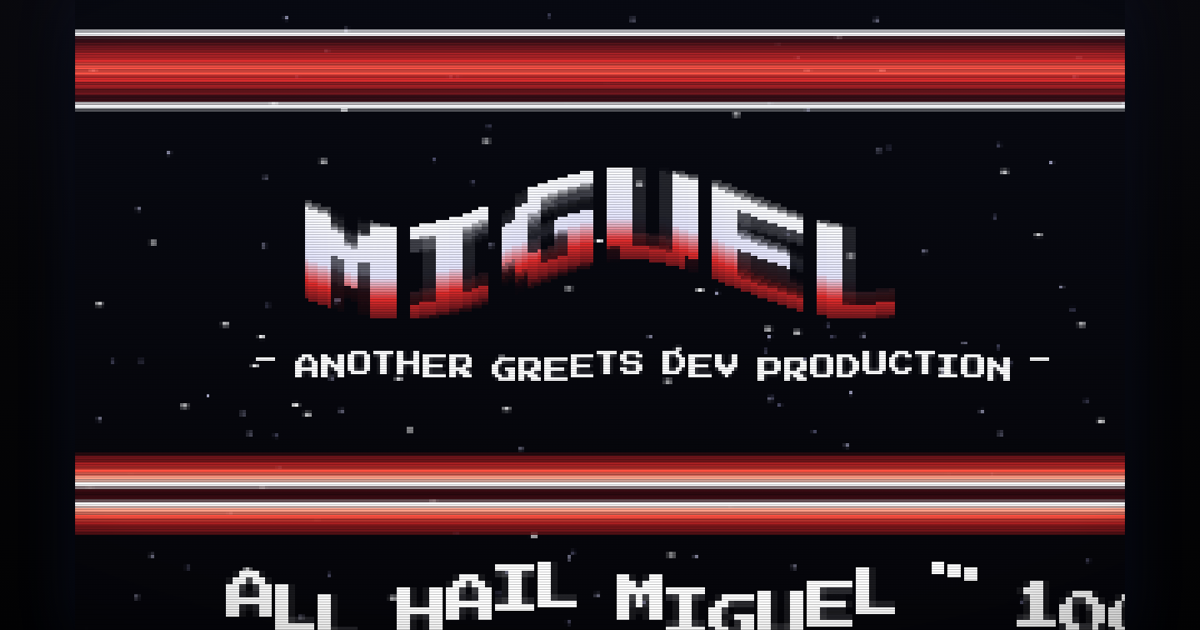
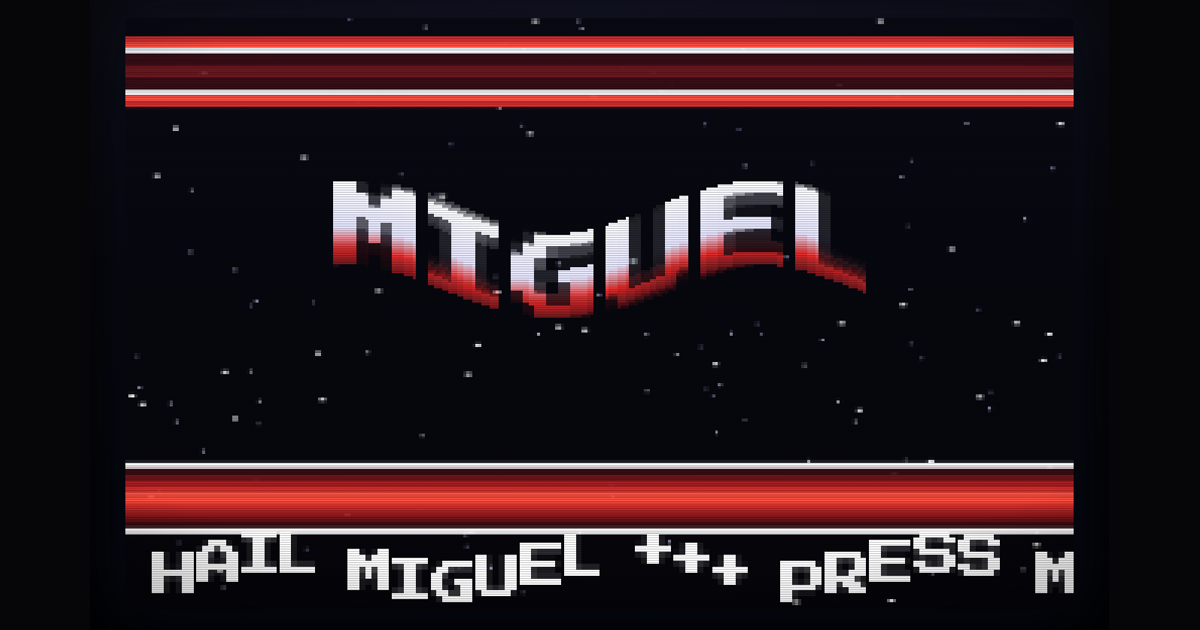
design r7: one-object boot morph, power key in open field, og card, web-haptics thud, mute teaches both gestures

diff --git a/src/App.tsx b/src/App.tsx
@@ -7,6 +7,7 @@ import { makeScrolltext, makeGreetz } from './lib/scrolltext.ts';
 import { generateTune } from './lib/tune.ts';
 import { bootAudio } from './lib/audio.ts';
 import type { Deck } from './lib/audio.ts';
+import { WebHaptics } from 'web-haptics';
 
 function pathName(): string | null {
   const raw = decodeURIComponent(location.pathname.replace(/^\/+/, '')).trim();
@@ -15,22 +16,10 @@ function pathName(): string | null {
   const s = raw.replace(/[^\p{L}\p{N} '\-_.]/gu, '').slice(0, 14).trim();
   return s || null;
 }
+const BAD_PATH = decodeURIComponent(location.pathname.replace(/^\/+/, '')).includes('/');
 
 type Phase = 'landing' | 'toboot' | 'preboot' | 'poweron' | 'running';
 const REDUCED = typeof matchMedia !== 'undefined' && matchMedia('(prefers-reduced-motion: reduce)').matches;
-
-// the seeded copper ramp, also worn by the void bars outside the tube
-function rampFor(name: string): RampName {
-  return pick(mulberry32(hashName(name) ^ 0xface), Object.keys(RAMPS)) as RampName;
-}
-// hard copper stripes, matching the raster's copperBar bands (dark -> hot -> dark)
-function vbarGradient(ramp: RampName): string {
-  const r = RAMPS[ramp];
-  const sym = [r[2], r[3], r[4], r[6], r[6], r[4], r[3], r[2]];
-  const stops = sym.map((c, i) => `${c} ${(i * 100 / 8).toFixed(1)}% ${((i + 1) * 100 / 8).toFixed(1)}%`);
-  return `linear-gradient(to bottom, ${stops.join(', ')})`;
-}
-
 
 export default function App() {
   const [name, setName] = useState<string | null>(pathName);
@@ -39,6 +28,7 @@ export default function App() {
   const canvasRef = useRef<HTMLCanvasElement>(null);
   const inputRef = useRef<HTMLInputElement>(null);
   const deckRef = useRef<Deck | null>(null);
+  const hapticsRef = useRef<WebHaptics | null>(null);
   const mutedRef = useRef(false);
   try { mutedRef.current = localStorage.getItem('greets-muted') === '1'; } catch { /* private mode */ }
   const phaseRef = useRef(phase);
@@ -47,6 +37,12 @@ export default function App() {
   // the demo engine lives outside react; draft flows in via ref
   const draftRef = useRef(draft);
   draftRef.current = draft;
+  // the boot thud — web-haptics covers iOS via audio ticks; muted kills it too
+  const thud = () => {
+    if (REDUCED || mutedRef.current) return;
+    hapticsRef.current ??= new WebHaptics();
+    void hapticsRef.current.trigger(18);
+  };
   const powerRef = useRef({ started: 0, done: 0, fromLanding: false, pressAt: 0 });
 
   useEffect(() => {
@@ -68,7 +64,7 @@ export default function App() {
         const t = (now - t0) / 1000;
         const ph = phaseRef.current;
         if (REDUCED && ph === 'running') { demo.renderReduced(); return; }
-        if (ph === 'landing') demo.renderBios(t, draftRef.current);
+        if (ph === 'landing') demo.renderBios(t, draftRef.current, BAD_PATH);
         else if (ph === 'toboot') {
           const u = (now - powerRef.current.started) / 350;
           // the typed name stays on the glass until the slit covers it — the
@@ -78,7 +74,7 @@ export default function App() {
           if (u >= 1) {
             powerRef.current.started = now;
             powerRef.current.fromLanding = true;
-            if (!REDUCED) navigator.vibrate?.(18);
+            thud();
             const d = deckRef.current;
             if (d) { void d.ctx.resume(); d.play(); }
             setPhase('poweron');
@@ -113,7 +109,7 @@ export default function App() {
         powerRef.current.started = performance.now();
         powerRef.current.fromLanding = false;
         setPhase('poweron');
-        if (!REDUCED) navigator.vibrate?.(18);
+        thud();
         const d = deckRef.current;
         if (d) { void d.ctx.resume(); d.play(); }
       }
@@ -148,12 +144,6 @@ export default function App() {
     return () => { removeEventListener('keydown', onKey); removeEventListener('pointerdown', onTap); };
   }, []);
 
-  useEffect(() => {
-    const ramp = rampFor(name ?? 'STRANGER');
-    document.documentElement.style.setProperty('--vbar', vbarGradient(ramp));
-    document.documentElement.style.setProperty('--vbar-glow', RAMPS[ramp][4] + '55');
-  }, [name]);
-
   const submit = () => {
     const s = draft.trim();
     if (!s) return;
@@ -166,8 +156,6 @@ export default function App() {
   return (
     <div className="app">
       <div className="room" />
-      <div className="vbar top" />
-      <div className="vbar bottom" />
       <div className="tube">
         <canvas ref={canvasRef} className="demoscreen" aria-label={`cracktro greeting ${name ?? ''}`} />
         <div className="crt" aria-hidden>

diff --git a/src/lib/demo.ts b/src/lib/demo.ts
@@ -329,8 +329,9 @@ export class Demo {
     return x;
   }
 
-  // bios/landing: static starfield + boot text, name typed live
-  renderBios(t: number, draft: string) {
+  // bios/landing: static starfield + boot text, name typed live.
+  // a path with a slash lands here too, honestly labelled
+  renderBios(t: number, draft: string, badPath = false) {
     const c = this.ctx;
     c.fillStyle = '#05050a';
     c.fillRect(0, 0, W, H);
@@ -338,7 +339,7 @@ export class Demo {
     const shown = (draft.toUpperCase() || '').slice(0, 12);
     if (shown.length > this.lastDraftLen) { this.flashStart = t; this.flashIdx = shown.length - 1; }
     this.lastDraftLen = shown.length;
-    this.tinyText('TYPE A NAME', 52, t, 2);
+    this.tinyText(badPath ? 'NOT A NAME' : 'TYPE A NAME', 52, t, 2);
     const x = this.drawDraft(shown, t);
     if (Math.floor(t * 2) % 2 === 0) {
       c.fillStyle = this.ramp[6];
@@ -373,6 +374,7 @@ export class Demo {
 
   // preboot: the demo, paused and dimmed, waiting for the gesture.
   // the words stay on the glass — only the dashes breathe — plus a power key
+  // parked in open starfield, clear of the copper
   renderPreboot(t: number, touch = false, pressed = false) {
     this.renderClassic(0, false);
     const c = this.ctx;
@@ -382,7 +384,7 @@ export class Demo {
     const full = '- ' + core + ' -';
     let s = 2;
     while (s > 1 && this.drawnW(full, s) > W - 16) s -= 0.5;
-    const y = H / 2 + 28;
+    const y = H / 2 - 10;
     this.tinyText(core, y, 0, s);
     if ((t * 1.5) % 1 < 0.75) {
       // the dashes blink, the words hold
@@ -393,7 +395,7 @@ export class Demo {
         c.drawImage(gl.cv, x0 + this.drawnW(full, s) - gl.w * s, y, gl.w * s, gl.h * s);
       }
     }
-    this.powerKey(W / 2, y + 26, pressed);
+    this.powerKey(W / 2, y + 44, pressed);
   }
 
   // crt power-on: the beam collapses in, then the slit opens. coming from the
@@ -424,10 +426,10 @@ export class Demo {
     }
   }
 
-  // prefers-reduced-motion: one frozen frame, honestly labelled
+  // prefers-reduced-motion: one frozen frame, honestly labelled in open pixels
   renderReduced() {
     this.renderClassic(2);
-    this.tinyText('- MOTION OFF -', H * 0.78, 0);
+    this.tinyText('- MOTION OFF -', 120, 0);
   }
 
   // the first beat after boot: the real baked logo lands letter by letter,
@@ -441,25 +443,31 @@ export class Demo {
     this.starfield(t);
     this.copper(t);
     // the typed word dissolves into the demo it becomes — it never teleports
-    if (draft && u < 0.5) this.drawDraft(draft.toUpperCase().slice(0, 12), t, 1 - u * 2);
+    if (draft && u < 0.3) this.drawDraft(draft.toUpperCase().slice(0, 12), t, 1 - u / 0.3);
     const hot = this.solidLogo(this.ramp[6]);
     const x0 = (W - this.logo.w) / 2;
     const draws = [{ d: -0.11, a: 0.25 }, { d: -0.055, a: 0.45 }, { d: 0, a: 1 }];
     const nLetters = Math.max(...this.colLetter) + 1;
+    // chrome letters land on the typed name's own baseline, then the whole
+    // word lifts into its wave — one object, not a replacement
+    const cy0 = draft ? 104 - this.logo.h / 2 : H * 0.3;
+    const k = draft ? Math.min(1, Math.max(0, (u - 0.7) / 0.6)) : 1;
+    const e = k * k * (3 - 2 * k);
+    const cy = cy0 + (H * 0.3 - cy0) * e;
     for (let x = 0; x < this.logo.w; x++) {
       const li = this.colLetter[x];
       if (li < 0) continue;
       const appear = 0.25 + li * 0.1;
       if (u <= appear) continue;
       for (const { d, a } of draws) {
-        const y = H * 0.3 + Math.sin((t + d) * 2.6 + x * 0.045) * 9;
+        const y = cy + Math.sin((t + d) * 2.6 + x * 0.045) * 9;
         c.globalAlpha = a;
         c.drawImage(this.logo.cv, x, 0, 1, this.logo.h, x0 + x, y, 1, this.logo.h);
       }
       c.globalAlpha = 1;
       if (u - appear < 0.22) {
         // hot additive glow over the landing columns — chrome, brighter
-        const y = H * 0.3 + Math.sin(t * 2.6 + x * 0.045) * 9;
+        const y = cy + Math.sin(t * 2.6 + x * 0.045) * 9;
         c.globalCompositeOperation = 'lighter';
         c.drawImage(hot, x, 0, 1, this.logo.h, x0 + x, y, 1, this.logo.h);
         c.globalCompositeOperation = 'source-over';

diff --git a/src/app.css b/src/app.css
@@ -8,20 +8,6 @@ html, body, #root { height: 100%; }
 body { background: #060608; overflow: hidden; font-family: 'PS2P', monospace; }
 
 .app { height: 100%; position: relative; display: flex; align-items: center; justify-content: center; }
-.vbar {
-  position: absolute; height: 26px;
-  /* clipped to the tube's own width — the copper never escapes the object */
-  left: 50%; width: min(96vw, 140vh); transform: translateX(-50%);
-  background: var(--vbar, repeating-linear-gradient(to bottom, #3c1404 0 8.3%, #782a06 8.3% 16.6%, #b8480a 16.6% 25%, #e86a10 25% 33.3%, #ffa030 33.3% 41.6%, #ffd880 41.6% 50%, #ffffff 50% 58.3%, #ffd880 58.3% 66.6%, #ffa030 66.6% 75%, #e86a10 75% 83.3%, #b8480a 83.3% 91.6%, #782a06 91.6% 100%));
-  box-shadow: 0 0 12px var(--vbar-glow, rgba(230, 90, 30, 0.2));
-  display: none;
-}
-/* the phone tube is 96vw wide, so its height is 60vw. the top bar overlaps
-   the glass ~13px so its stack meets the raster's own copper; the bottom
-   bar hugs the edge, the scroller fills the band inside */
-.vbar { z-index: 2; }
-.vbar.top { top: calc(50% - 30vw - 13px); }
-.vbar.bottom { top: calc(50% + 30vw); }
 .room {
   position: absolute; inset: 0;
   background: radial-gradient(140% 100% at 50% 0%, #10101a 0%, #060608 55%, #030304 100%);
@@ -61,8 +47,4 @@ body { background: #060608; overflow: hidden; font-family: 'PS2P', monospace; }
 @keyframes flick {
   0%, 91.9%, 93.1%, 100% { opacity: 0; }
   92%, 93% { opacity: 0.025; }
-}
-
-@media (max-width: 700px) {
-  .vbar { display: block; }
 }

diff --git a/index.html b/index.html
@@ -7,6 +7,8 @@
     <meta name="description" content="Type a name; get a cracktro that greets it — chiptune, plasma, scrolltext." />
     <meta property="og:title" content="greets — your name is a cracktro" />
     <meta property="og:description" content="A 90s demoscene intro generated for your name. Plasma, copper bars, scrolltext, chiptune." />
+    <meta property="og:image" content="https://greets-theta.vercel.app/og.png" />
+    <meta name="twitter:card" content="summary_large_image" />
     <title>greets — your name is a cracktro</title>
     <style>html, body, #root { background: #060608; margin: 0; } .demoscreen { background: #05050a; }</style>
   </head>

diff --git a/src/lib/scrolltext.ts b/src/lib/scrolltext.ts
@@ -28,7 +28,7 @@ export function makeScrolltext(name: string): string {
   const rng = mulberry32(hashName(name) ^ 0x5eed);
   const parts = [
     `${pick(rng, OPENERS)} ${name.toUpperCase()} +++ `,
-    'PRESS M TO MUTE THE TUNE +++ ',
+    'PRESS M OR TAP TO MUTE THE TUNE +++ ',
     pick(rng, BOASTS) + ' +++ ',
     `GREETINGS ALSO FLY TO ${shuffle(rng, [...CREW]).slice(0, 4).join(' - ')} +++ `,
     `SHARE THIS ONE - GREETS DEV / ${name.toUpperCase()} +++ `,
